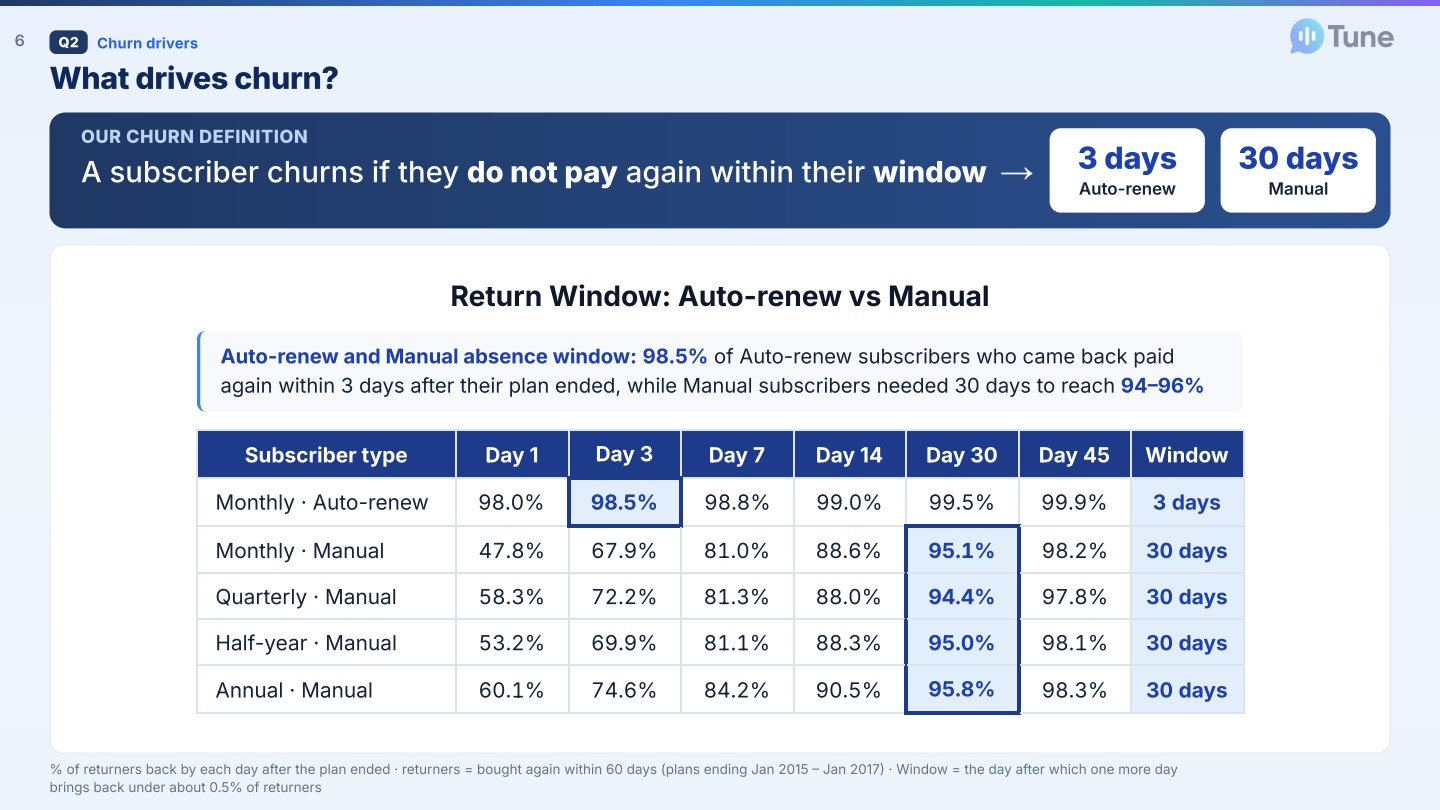
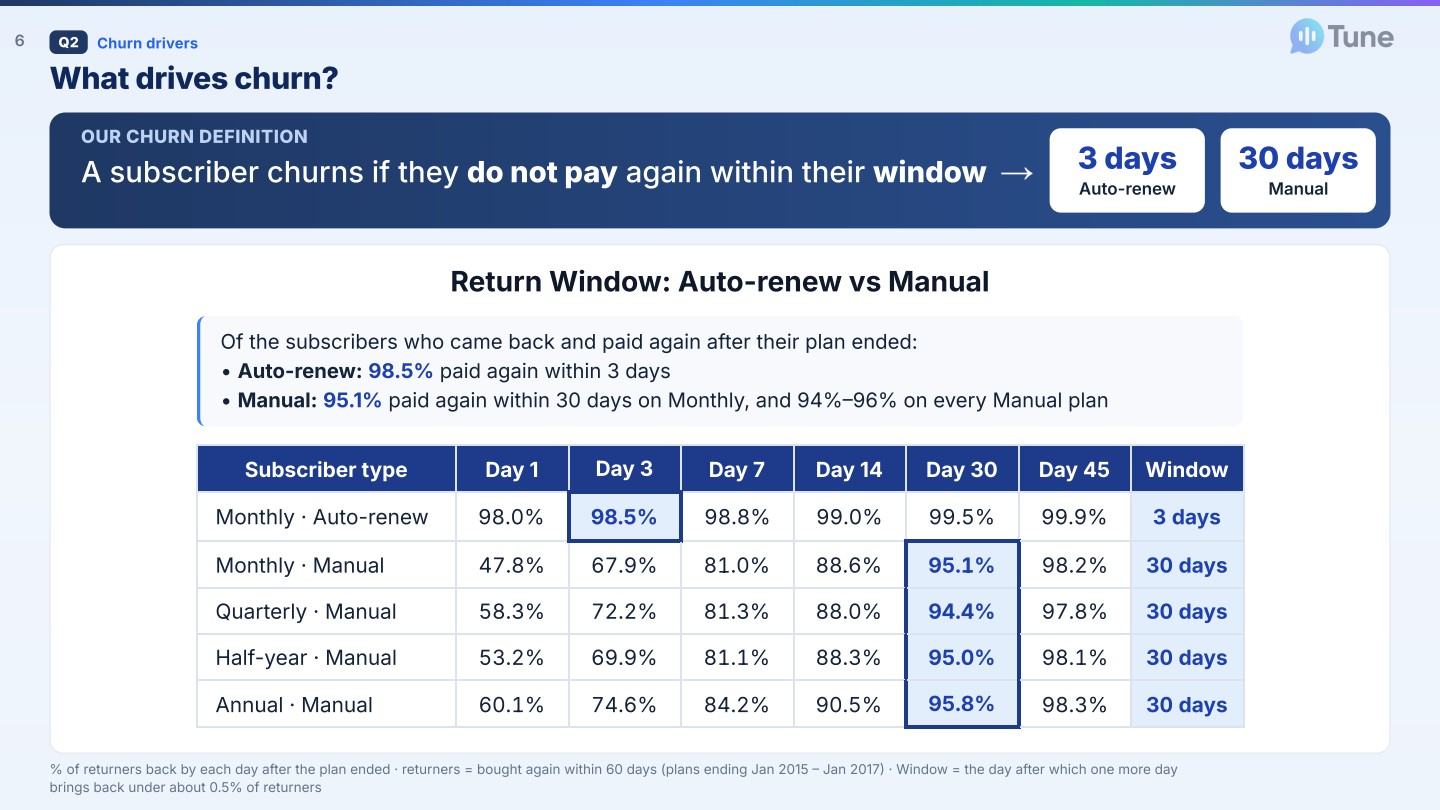
Deck slide 6: the return-window bullet says what 98.5% and 95.1% mean, one line per payment type

Changed region(s): [[0.125, 0.3395, 0.875, 0.9259]]

diff --git a/index.html b/index.html
@@ -3726,7 +3726,7 @@ const ISSUES = { raw_users: "U1-U11: age 0 or out of range, gender missing, regi
   raw_churn_labels: "L4-L7: labels don't match a naive 'due in March' population" };
 
 // ---------------- tabs ----------------
-const DECKV = "1118m6";  // change on every deck update so browsers load the new slide images, not a cached copy
+const DECKV = "1118rw";  // change on every deck update so browsers load the new slide images, not a cached copy
 const GROUPS = {
   intro: [["overview", "Overview"]],
   p1: [["dq", "1a · Data quality"], ["lineage", "1b.1 · Clean layer & data model"], ["explorer", "1b.2 · Explorer & SQL"], ["churn", "1c · Churn check"]],
